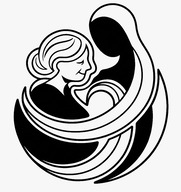
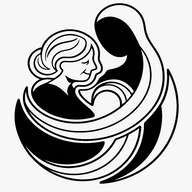
Al dia el front

diff --git a/Frontend/vite.config.js b/Frontend/vite.config.js
@@ -31,18 +31,6 @@ export default defineConfig({
             type: 'image/png',
             purpose: 'any'
           },
-          {
-            src: '/icon-192.png',
-            sizes: '192x192',
-            type: 'image/png',
-            purpose: 'maskable'
-          },
-          {
-            src: '/icon-512.png',
-            sizes: '512x512',
-            type: 'image/png',
-            purpose: 'maskable'
-          }
         ]
       },
       workbox: {